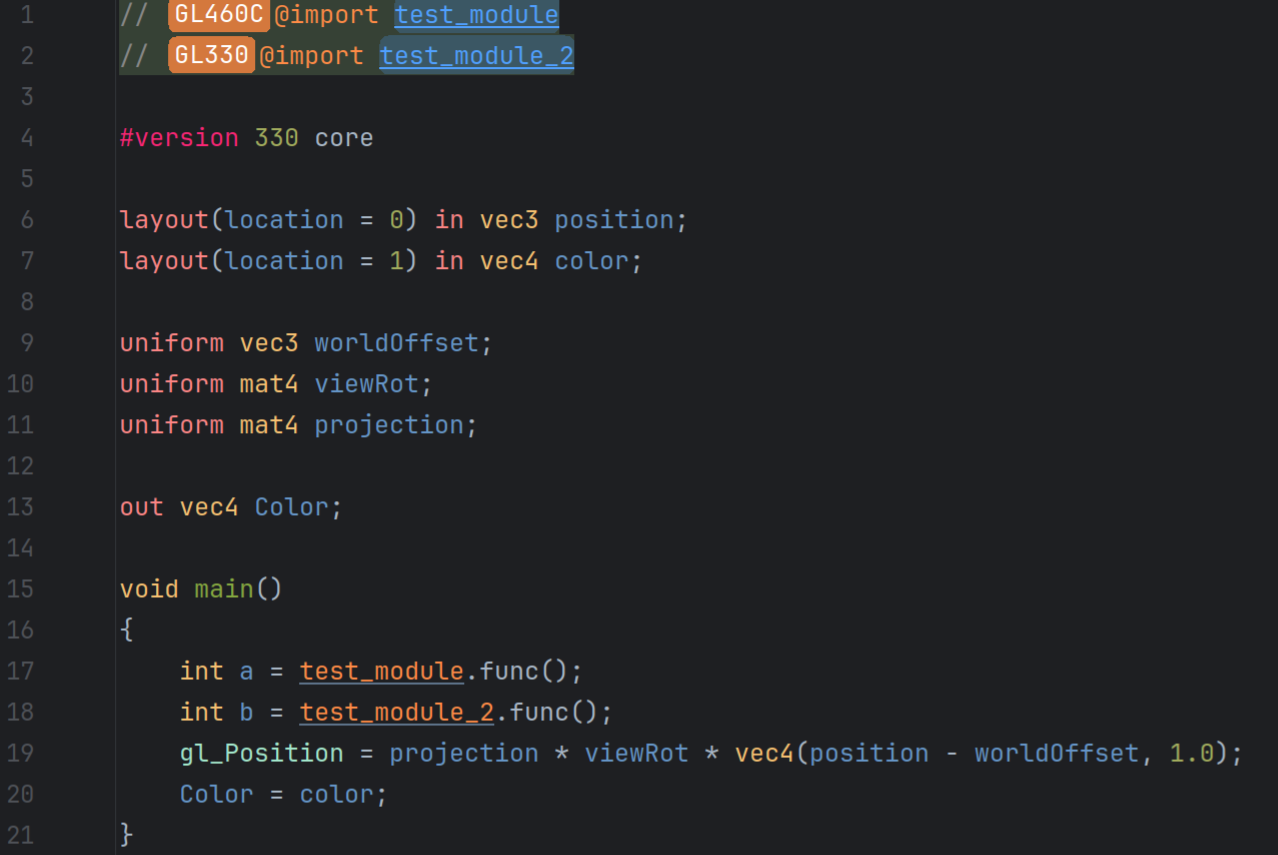
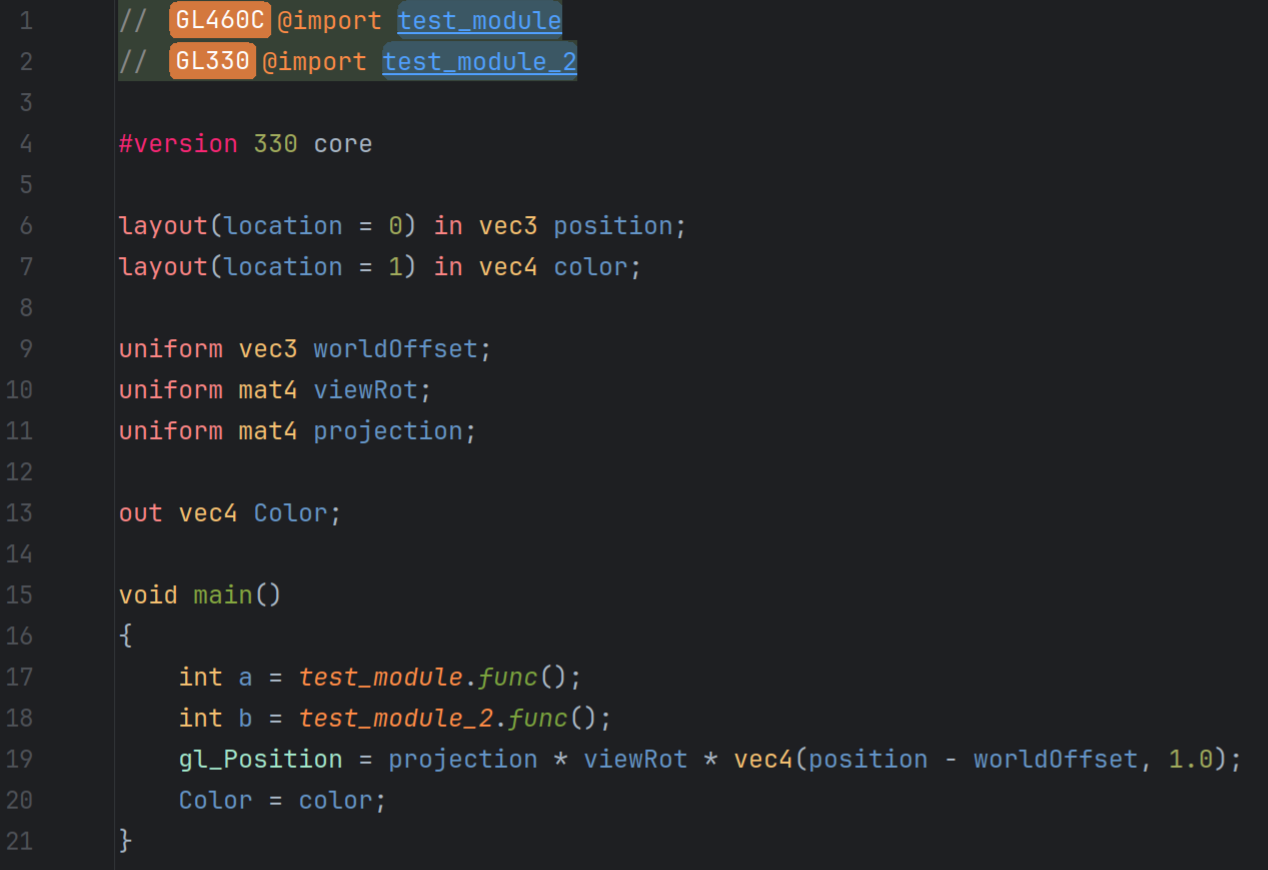
Implement GlslModuleFuncCallAnnotator + qol improvements

diff --git a/src/main/kotlin/com/tttsaurus/ksml/language/embed_lang/annotator/GlslModuleFuncCallAnnotator.kt b/src/main/kotlin/com/tttsaurus/ksml/language/embed_lang/annotator/GlslModuleFuncCallAnnotator.kt
@@ -1,0 +1,96 @@
+package com.tttsaurus.ksml.language.embed_lang.annotator
+
+import com.intellij.lang.annotation.AnnotationHolder
+import com.intellij.lang.annotation.Annotator
+import com.intellij.lang.annotation.HighlightSeverity
+import com.intellij.openapi.editor.colors.TextAttributesKey
+import com.intellij.openapi.editor.markup.TextAttributes
+import com.intellij.openapi.project.DumbService
+import com.intellij.openapi.project.Project
+import com.intellij.psi.PsiElement
+import com.intellij.psi.search.GlobalSearchScope
+import com.intellij.psi.stubs.StubIndex
+import com.intellij.ui.JBColor
+import com.tttsaurus.ksml.KsmlBundle
+import com.tttsaurus.ksml.grammar.psi.KsmlCodeDecl
+import com.tttsaurus.ksml.language.index.FUNCTION_INDEX_KEY
+import com.tttsaurus.ksml.language.utils.GlslModuleCallParser
+import java.awt.Color
+import java.awt.Font
+
+@Suppress("Deprecation")
+private val MODULE_FUNC_CALL_HIGHLIGHT = TextAttributesKey.createTextAttributesKey(
+    "GLSL_MODULE_REF_HIGHLIGHT",
+    TextAttributes().apply {
+        foregroundColor = JBColor(Color(123, 163, 62), Color(123, 163, 62))
+        fontType = Font.ITALIC
+    }
+)
+
+class GlslModuleFuncCallAnnotator : Annotator {
+
+    override fun annotate(element: PsiElement, holder: AnnotationHolder) {
+        val node = element.node ?: return
+        if (node.elementType.toString() != "VARIABLE_IDENTIFIER") return
+
+        val text = element.text
+        if (!Regex("[A-Za-z_][A-Za-z0-9_]*").matches(text)) return
+
+        val parentText = element.parent?.text ?: ""
+        if (!parentText.contains('(') && !parentText.contains(')')) return
+
+        val ppp = element.parent?.parent?.parent ?: return
+        val moduleCall = GlslModuleCallParser.parse(ppp.text) ?: return
+
+        if (functionExists(
+                moduleCall.moduleName,
+                moduleCall.functionName,
+                moduleCall.arguments,
+                element.project
+            )
+        ) {
+            holder.newSilentAnnotation(HighlightSeverity.INFORMATION)
+                .range(element.textRange)
+                .textAttributes(MODULE_FUNC_CALL_HIGHLIGHT)
+                .create()
+        } else {
+            holder.newAnnotation(
+                HighlightSeverity.ERROR,
+                KsmlBundle.message("KsmlInGlsl.functionDefNotFound")
+            )
+                .range(element.textRange)
+                .create()
+        }
+    }
+
+    private fun functionExists(
+        moduleName: String,
+        functionName: String,
+        funcCallArgs: List<String>,
+        project: Project
+    ): Boolean {
+
+        if (project.isDisposed) return false
+        if (DumbService.isDumb(project)) return false
+
+        if (functionName.isEmpty()) return false
+
+        val decls = StubIndex.getElements(
+            FUNCTION_INDEX_KEY,
+            functionName,
+            project,
+            GlobalSearchScope.projectScope(project),
+            KsmlCodeDecl::class.java
+        )
+
+        decls.forEach {
+            if (it.moduleName == moduleName) {
+                if (it.params?.size == funcCallArgs.size) {
+                    return true
+                }
+            }
+        }
+
+        return false
+    }
+}

diff --git a/src/main/kotlin/com/tttsaurus/ksml/language/embed_lang/annotator/GlslModuleUsageAnnotator.kt b/src/main/kotlin/com/tttsaurus/ksml/language/embed_lang/annotator/GlslModuleUsageAnnotator.kt
@@ -8,14 +8,17 @@ import com.intellij.openapi.editor.markup.TextAttributes
 import com.intellij.openapi.util.TextRange
 import com.intellij.psi.PsiElement
 import com.intellij.ui.JBColor
+import com.tttsaurus.ksml.KsmlBundle
 import com.tttsaurus.ksml.language.utils.GlslFileModuleImports
 import java.awt.Color
+import java.awt.Font
 
 @Suppress("Deprecation")
 private val MODULE_REF_HIGHLIGHT = TextAttributesKey.createTextAttributesKey(
     "GLSL_MODULE_REF_HIGHLIGHT",
     TextAttributes().apply {
         foregroundColor = JBColor(Color(255, 139, 70), Color(255, 139, 70))
+        fontType = Font.ITALIC
     }
 )
 
@@ -40,15 +43,25 @@ class GlslModuleUsageAnnotator : Annotator {
         val file = element.containingFile ?: return
         val importedModules = GlslFileModuleImports.getImportedModules(file)
 
-        if (qualifier !in importedModules) return
-
-        holder.newSilentAnnotation(HighlightSeverity.INFORMATION)
-            .range(TextRange(
-                element.textRange.startOffset,
-                element.textRange.startOffset + qualifier.length
-            ))
-            .textAttributes(MODULE_REF_HIGHLIGHT)
-            .create()
+        if (qualifier !in importedModules) {
+            holder.newAnnotation(
+                HighlightSeverity.ERROR,
+                KsmlBundle.message("KsmlInGlsl.moduleNotImported")
+            )
+                .range(TextRange(
+                    element.textRange.startOffset,
+                    element.textRange.startOffset + qualifier.length
+                ))
+                .create()
+        } else {
+            holder.newSilentAnnotation(HighlightSeverity.INFORMATION)
+                .range(TextRange(
+                    element.textRange.startOffset,
+                    element.textRange.startOffset + qualifier.length
+                ))
+                .textAttributes(MODULE_REF_HIGHLIGHT)
+                .create()
+        }
     }
 
     private fun String.allIndicesOf(sub: String): List<Int> {
